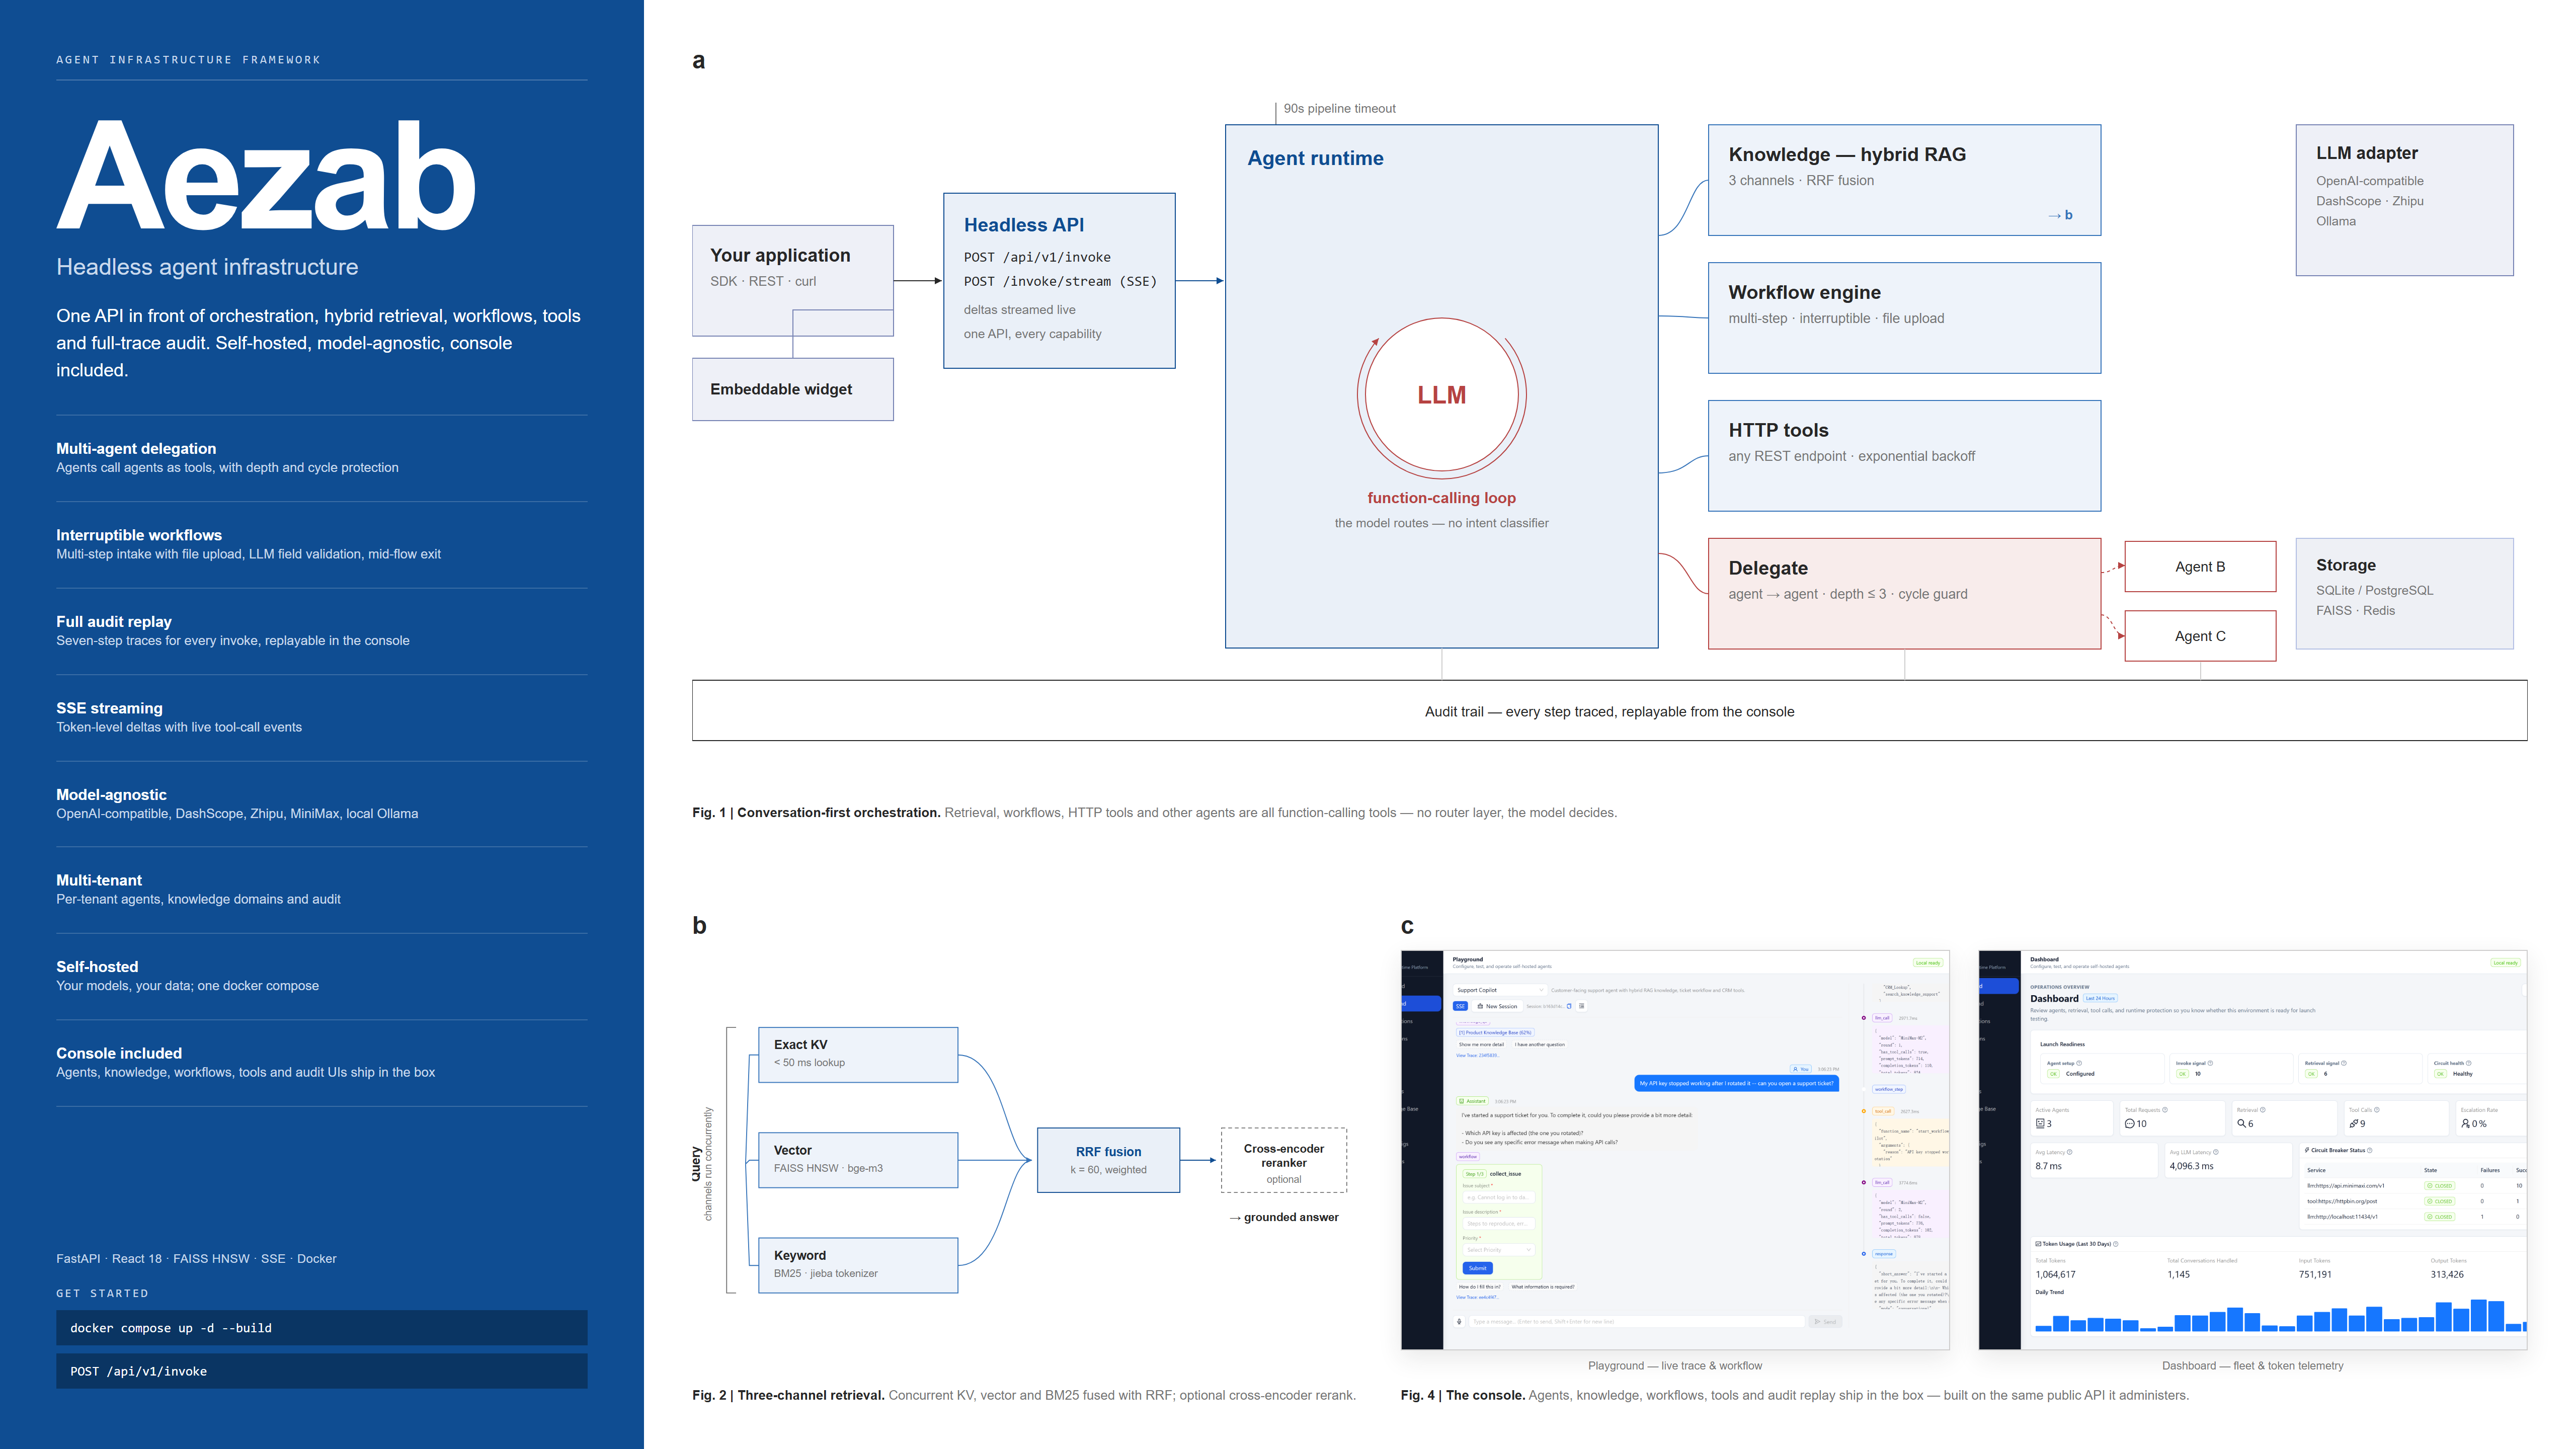
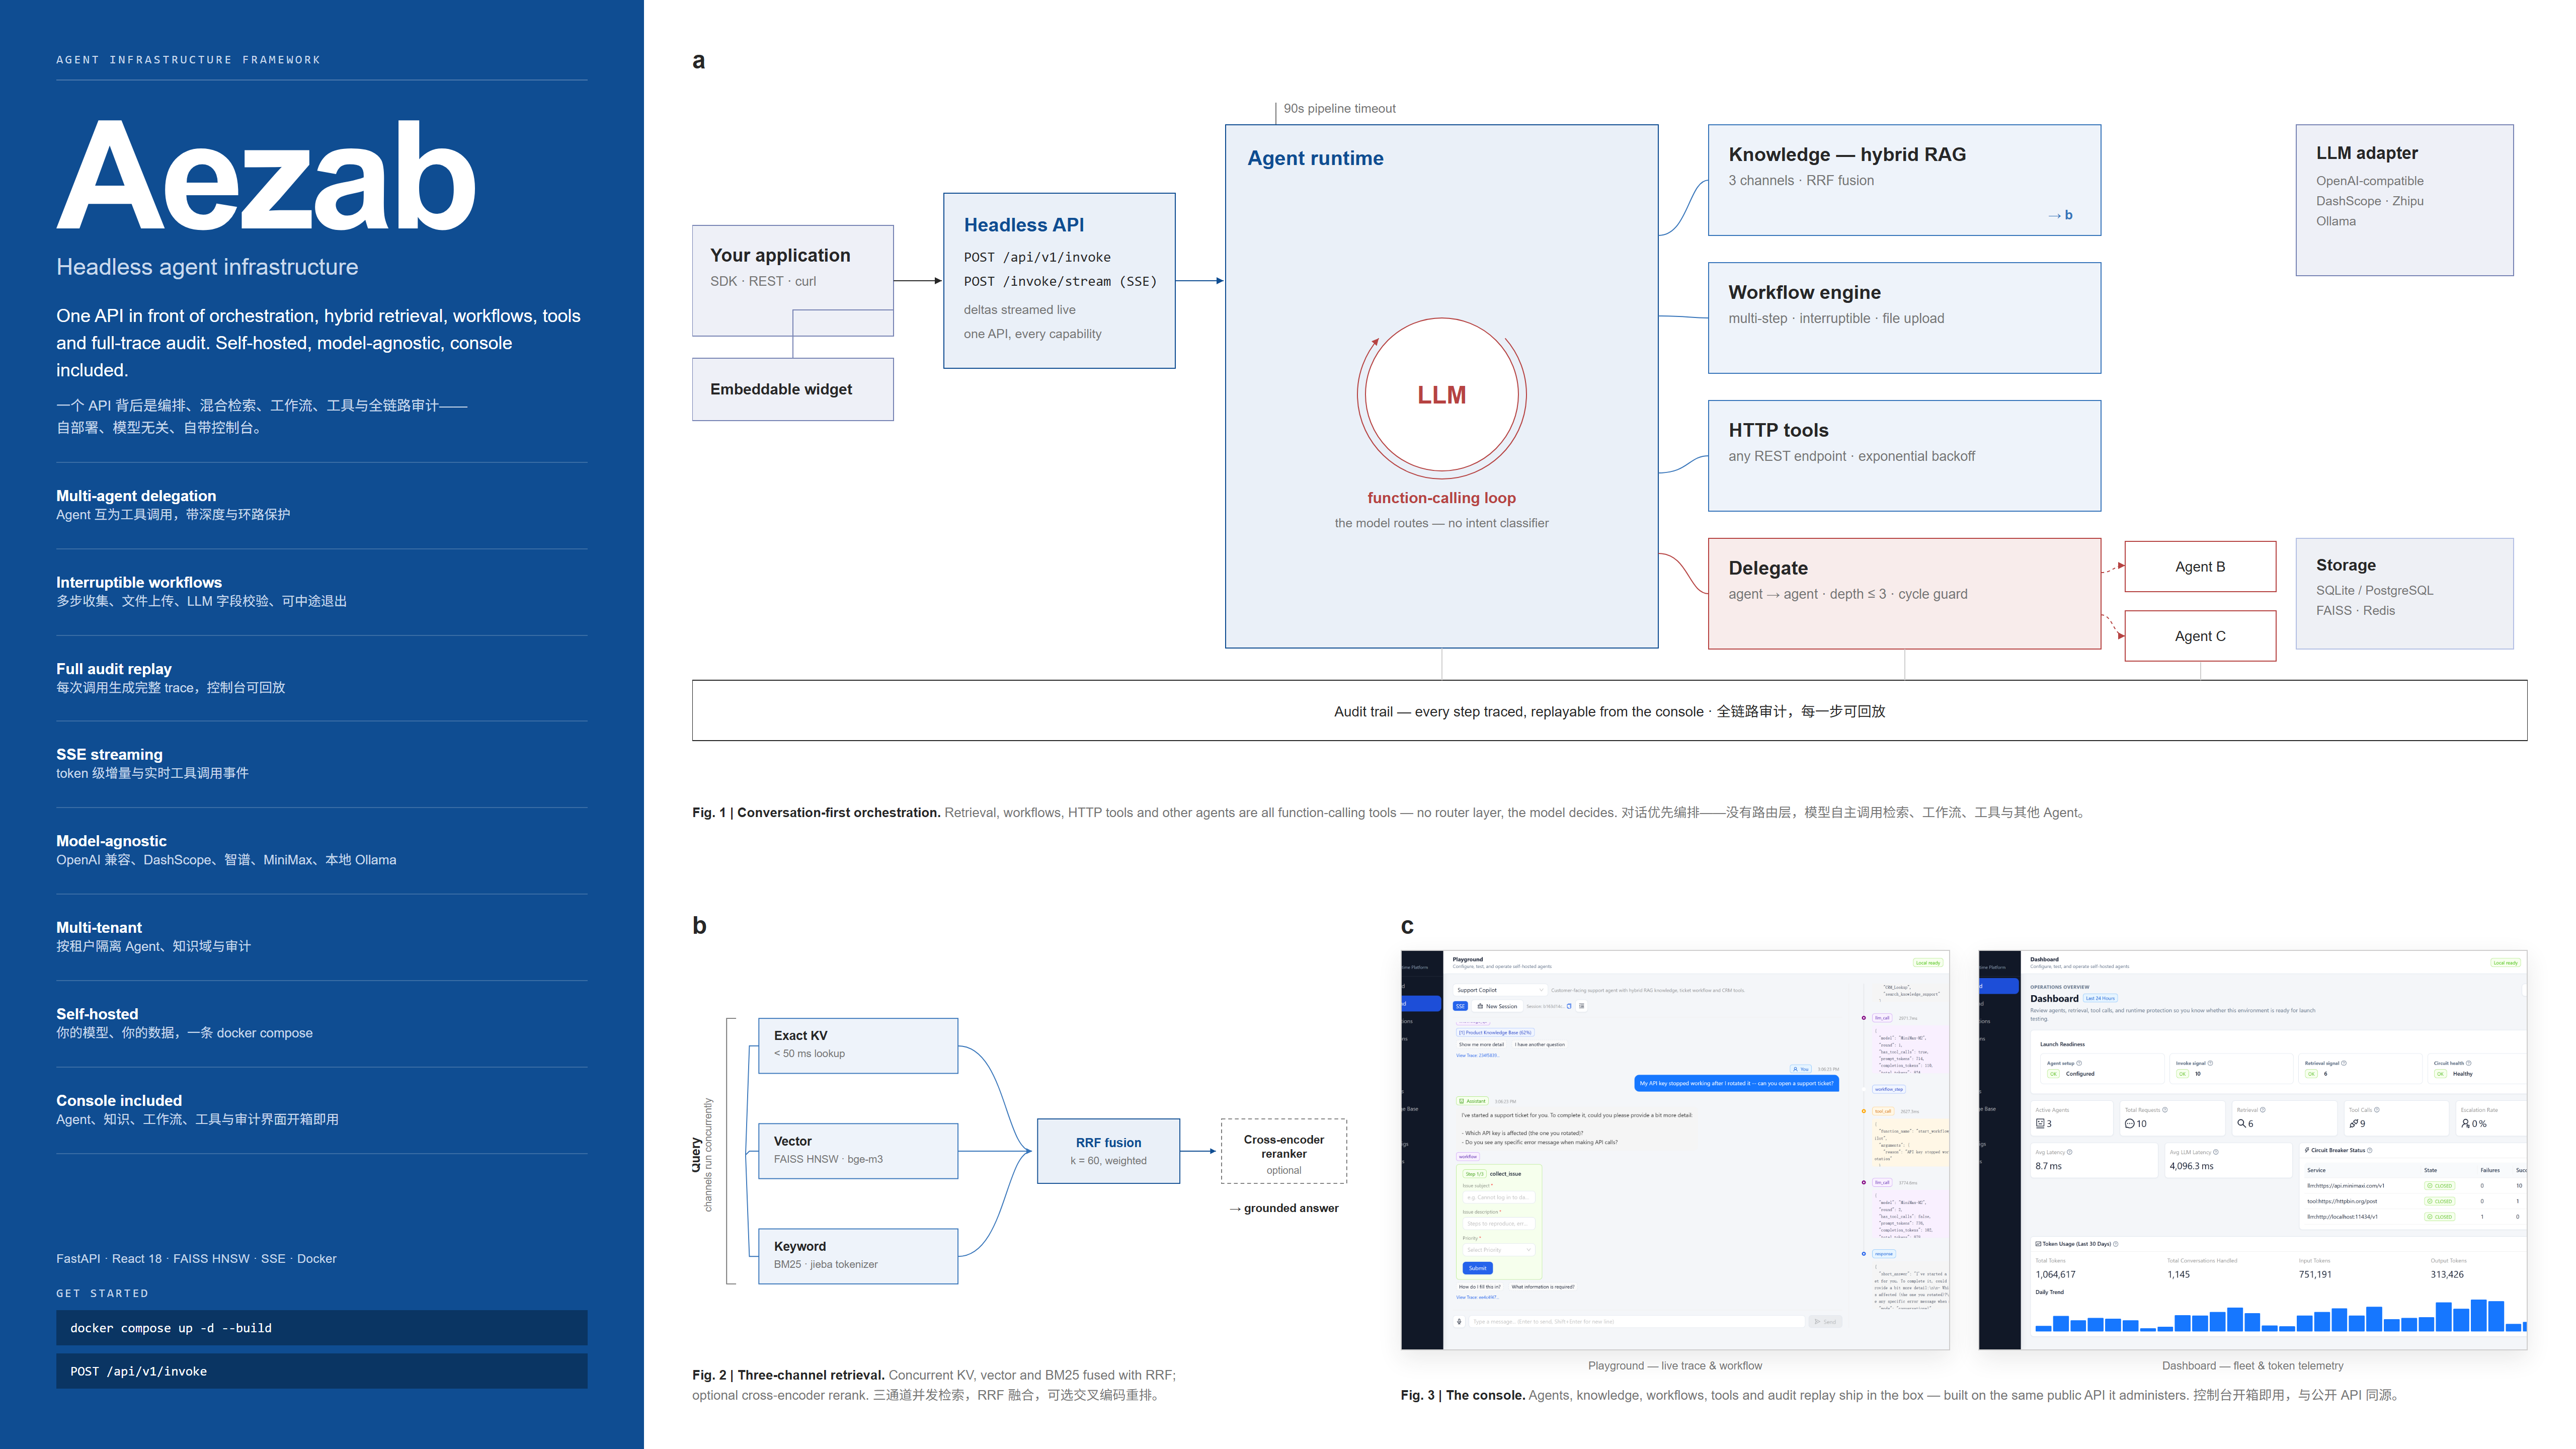
readme& img

diff --git a/README_zh.md b/README_zh.md
@@ -13,7 +13,7 @@
 
 </div>
 
-![Aezab overview](docs/images/aezab-overview.png)
+![Aezab 总览](docs/images/aezab-overview.png)
 
 ## 为什么选择 Aezab
 